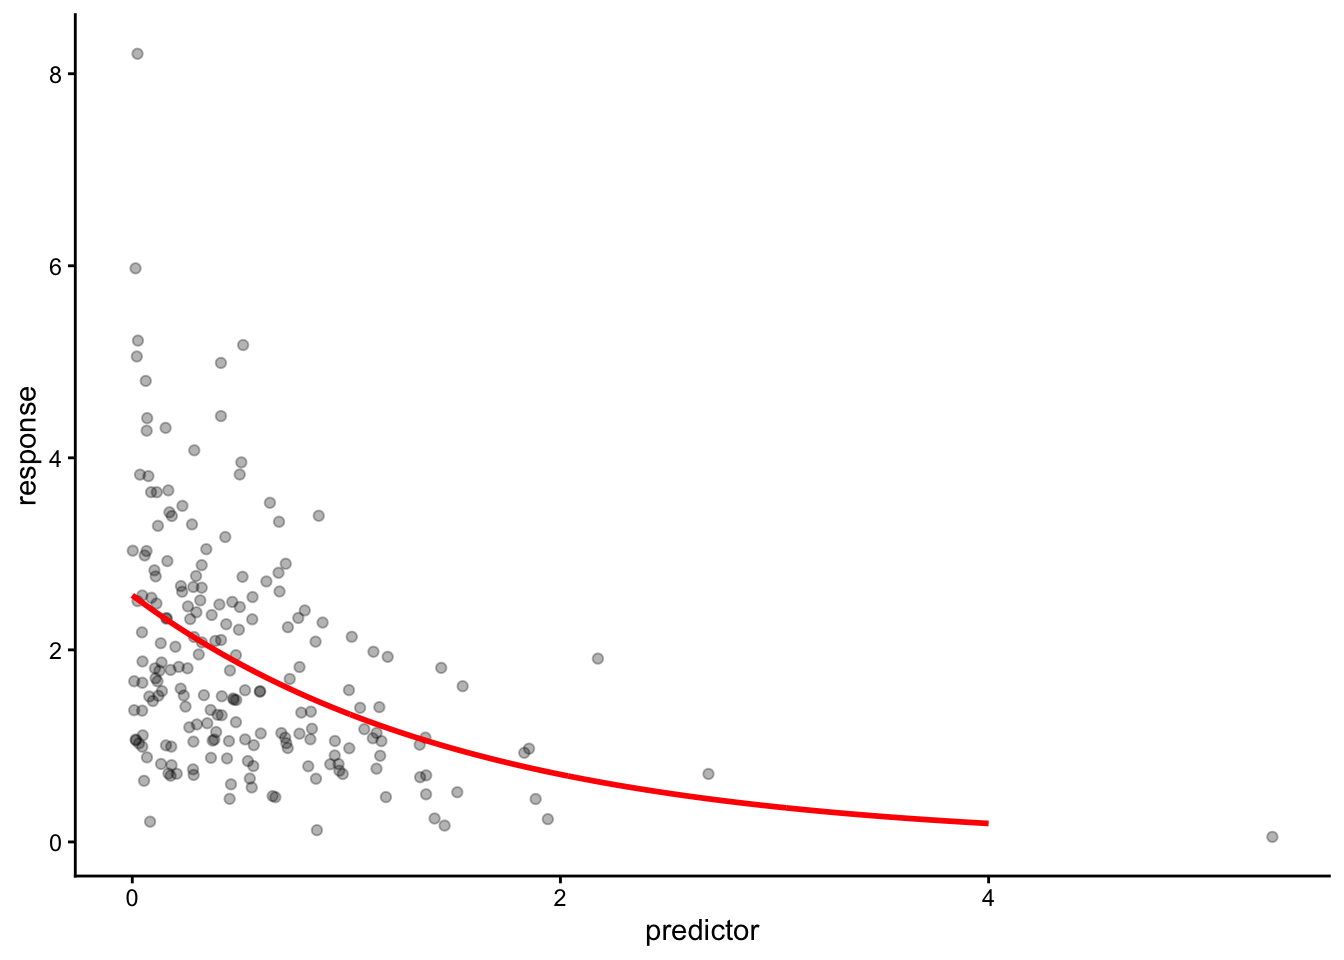
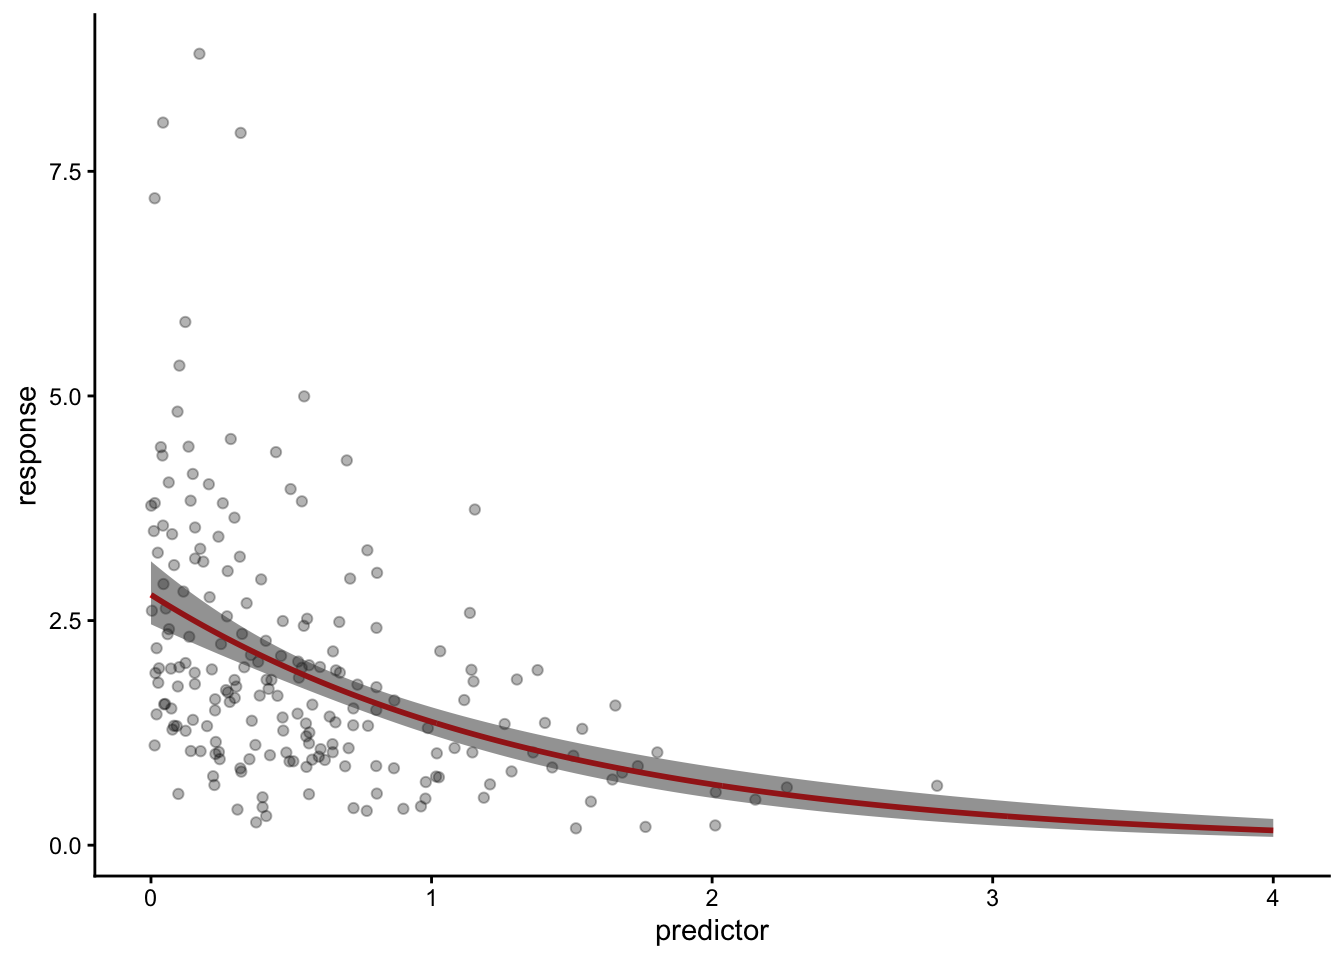
Update stats post

diff --git a/docs/posts/2025-12-3-stats-final/index.html b/docs/posts/2025-12-3-stats-final/index.html
@@ -250,6 +250,7 @@ window.Quarto = {
   <li><a href="#fit-model-to-simulated-data" id="toc-fit-model-to-simulated-data" class="nav-link" data-scroll-target="#fit-model-to-simulated-data">Fit model to simulated data</a></li>
   <li><a href="#fit-model-to-real-data" id="toc-fit-model-to-real-data" class="nav-link" data-scroll-target="#fit-model-to-real-data">Fit model to real data</a></li>
   </ul></li>
+  <li><a href="#extend-model-to-other-parameters" id="toc-extend-model-to-other-parameters" class="nav-link" data-scroll-target="#extend-model-to-other-parameters">Extend model to other parameters</a></li>
   <li><a href="#inference" id="toc-inference" class="nav-link" data-scroll-target="#inference">Inference</a></li>
   </ul>
 </nav>
@@ -273,6 +274,140 @@ window.Quarto = {
 </div>
 <div class="cell">
 <div class="code-copy-outer-scaffold"><div class="sourceCode cell-code" id="cb2"><pre class="sourceCode r code-with-copy"><code class="sourceCode r"><span id="cb2-1"><a href="#cb2-1" aria-hidden="true" tabindex="-1"></a>lakes <span class="ot">&lt;-</span> <span class="fu">read_csv</span>(here<span class="sc">::</span><span class="fu">here</span>(<span class="st">'data'</span>, <span class="st">"Timeseries_v6_forEDI.csv"</span>))</span></code></pre></div><button title="Copy to Clipboard" class="code-copy-button"><i class="bi"></i></button></div>
+</div>
+<p><strong>Variables Description:</strong></p>
+<div id="tbl-panel" class="quarto-layout-panel anchored">
+<figure class="quarto-float quarto-float-tbl figure">
+<figcaption class="quarto-float-caption-top quarto-float-caption quarto-float-tbl" id="tbl-panel-caption-0ceaefa1-69ba-4598-a22c-09a6ac19f8ca">
+Table&nbsp;1: Dataset Overview
+</figcaption>
+<div aria-describedby="tbl-panel-caption-0ceaefa1-69ba-4598-a22c-09a6ac19f8ca">
+<div class="quarto-layout-row">
+<div class="quarto-layout-cell-subref quarto-layout-cell" data-ref-parent="tbl-panel" style="flex-basis: 50.0%;justify-content: center;">
+<div id="tbl-first" class="quarto-float quarto-figure quarto-figure-center anchored">
+<figure class="quarto-float quarto-subfloat-tbl figure">
+<figcaption class="quarto-float-caption-top quarto-subfloat-caption quarto-subfloat-tbl" id="tbl-first-caption-0ceaefa1-69ba-4598-a22c-09a6ac19f8ca">
+(a) Variables Overview
+</figcaption>
+<div aria-describedby="tbl-first-caption-0ceaefa1-69ba-4598-a22c-09a6ac19f8ca">
+<table class="caption-top table">
+<colgroup>
+<col style="width: 50%">
+<col style="width: 50%">
+</colgroup>
+<thead>
+<tr class="header">
+<th style="text-align: left;">Variables</th>
+<th style="text-align: left;">Description</th>
+</tr>
+</thead>
+<tbody>
+<tr class="odd">
+<td style="text-align: left;">DOW</td>
+<td style="text-align: left;">DNR Lake Number</td>
+</tr>
+<tr class="even">
+<td style="text-align: left;">sampleDate</td>
+<td style="text-align: left;">Date which sample was collected on</td>
+</tr>
+<tr class="odd">
+<td style="text-align: left;">parameter</td>
+<td style="text-align: left;">Water quality parameter</td>
+</tr>
+<tr class="even">
+<td style="text-align: left;">result</td>
+<td style="text-align: left;">Value of parameter</td>
+</tr>
+<tr class="odd">
+<td style="text-align: left;">gtlt</td>
+<td style="text-align: left;">Greater than less than, indicates if values are above or below detection limits</td>
+</tr>
+<tr class="even">
+<td style="text-align: left;">dataSource</td>
+<td style="text-align: left;">Source of original data</td>
+</tr>
+<tr class="odd">
+<td style="text-align: left;">county</td>
+<td style="text-align: left;">County which lake is located in</td>
+</tr>
+</tbody>
+</table>
+</div>
+</figure>
+</div>
+</div>
+<div class="quarto-layout-cell-subref quarto-layout-cell" data-ref-parent="tbl-panel" style="flex-basis: 50.0%;justify-content: center;">
+<div id="tbl-second" class="quarto-float quarto-figure quarto-figure-center anchored">
+<figure class="quarto-float quarto-subfloat-tbl figure">
+<figcaption class="quarto-float-caption-top quarto-subfloat-caption quarto-subfloat-tbl" id="tbl-second-caption-0ceaefa1-69ba-4598-a22c-09a6ac19f8ca">
+(b) Parameters
+</figcaption>
+<div aria-describedby="tbl-second-caption-0ceaefa1-69ba-4598-a22c-09a6ac19f8ca">
+<table class="caption-top table">
+<thead>
+<tr class="header">
+<th style="text-align: left;">Parameters</th>
+<th style="text-align: left;">Description</th>
+</tr>
+</thead>
+<tbody>
+<tr class="odd">
+<td style="text-align: left;">chla.nonPcorr.ug_L</td>
+<td style="text-align: left;">Chlorophyll a, not corrected for pheophytin</td>
+</tr>
+<tr class="even">
+<td style="text-align: left;">chla.Pcorr.ug_L</td>
+<td style="text-align: left;">Chlorophyll a, corrected for pheophytin</td>
+</tr>
+<tr class="odd">
+<td style="text-align: left;">Cl.mg_L</td>
+<td style="text-align: left;">Chlorine</td>
+</tr>
+<tr class="even">
+<td style="text-align: left;">NH4.mg_L</td>
+<td style="text-align: left;">Ammonium</td>
+</tr>
+<tr class="odd">
+<td style="text-align: left;">nitrate.mg_L</td>
+<td style="text-align: left;">Nitrate</td>
+</tr>
+<tr class="even">
+<td style="text-align: left;">nitrite.mg_L</td>
+<td style="text-align: left;">Nitrite</td>
+</tr>
+<tr class="odd">
+<td style="text-align: left;">NOX.mg_L</td>
+<td style="text-align: left;">Nitrate &amp; Nitrite</td>
+</tr>
+<tr class="even">
+<td style="text-align: left;">secchi.m</td>
+<td style="text-align: left;">Secchi depth</td>
+</tr>
+<tr class="odd">
+<td style="text-align: left;">spCond.uS_cm</td>
+<td style="text-align: left;">Specific conductivity</td>
+</tr>
+<tr class="even">
+<td style="text-align: left;">TKN.mg_L</td>
+<td style="text-align: left;">Total Kjeldahl nitrogen</td>
+</tr>
+<tr class="odd">
+<td style="text-align: left;">TN.mg_L</td>
+<td style="text-align: left;">Total nitrogen</td>
+</tr>
+<tr class="even">
+<td style="text-align: left;">TP.mg_L</td>
+<td style="text-align: left;">Total phosphorus</td>
+</tr>
+</tbody>
+</table>
+</div>
+</figure>
+</div>
+</div>
+</div>
+</div>
+</figure>
 </div>
 <div class="cell">
 <div class="code-copy-outer-scaffold"><div class="sourceCode cell-code" id="cb3"><pre class="sourceCode r code-with-copy"><code class="sourceCode r"><span id="cb3-1"><a href="#cb3-1" aria-hidden="true" tabindex="-1"></a><span class="fu">ggplot</span>(lakes, <span class="fu">aes</span>(result)) <span class="sc">+</span></span>
@@ -369,6 +504,7 @@ window.Quarto = {
 <span id="cb5-3"><a href="#cb5-3" aria-hidden="true" tabindex="-1"></a>beta1 <span class="ot">&lt;-</span> <span class="sc">-</span><span class="fl">0.7</span> <span class="co"># Simulate log response decrease as predictor increases</span></span>
 <span id="cb5-4"><a href="#cb5-4" aria-hidden="true" tabindex="-1"></a>phi <span class="ot">&lt;-</span> <span class="dv">3</span></span></code></pre></div><button title="Copy to Clipboard" class="code-copy-button"><i class="bi"></i></button></div>
 </div>
+<p>To confirm our understanding of the model and system, we create simulated data with pre-defined coefficients, run the model and expect our coefficients to be returned.</p>
 <p><strong>Generating simulated data:</strong></p>
 <p>The predictor:</p>
 <ul>
@@ -411,9 +547,20 @@ window.Quarto = {
 <span id="cb9-4"><a href="#cb9-4" aria-hidden="true" tabindex="-1"></a><span class="co"># Create grid (one predictor for now)</span></span>
 <span id="cb9-5"><a href="#cb9-5" aria-hidden="true" tabindex="-1"></a>sim_grid <span class="ot">&lt;-</span> <span class="fu">tibble</span>(<span class="at">predictor =</span> <span class="fu">seq</span>(<span class="dv">0</span>, <span class="dv">4</span>, <span class="at">length.out =</span> <span class="dv">500</span>))</span>
 <span id="cb9-6"><a href="#cb9-6" aria-hidden="true" tabindex="-1"></a></span>
-<span id="cb9-7"><a href="#cb9-7" aria-hidden="true" tabindex="-1"></a><span class="co"># Generate predictions</span></span>
-<span id="cb9-8"><a href="#cb9-8" aria-hidden="true" tabindex="-1"></a>sim_grid <span class="ot">&lt;-</span> sim_grid <span class="sc">|&gt;</span> </span>
-<span id="cb9-9"><a href="#cb9-9" aria-hidden="true" tabindex="-1"></a>  <span class="fu">mutate</span>(<span class="at">predicted_response =</span> <span class="fu">predict</span>(sim_model, <span class="at">newdata =</span> sim_grid, <span class="at">type =</span> <span class="st">"response"</span>))</span></code></pre></div><button title="Copy to Clipboard" class="code-copy-button"><i class="bi"></i></button></div>
+<span id="cb9-7"><a href="#cb9-7" aria-hidden="true" tabindex="-1"></a><span class="co"># Generate predictions with standard error in link space</span></span>
+<span id="cb9-8"><a href="#cb9-8" aria-hidden="true" tabindex="-1"></a>sim_se <span class="ot">&lt;-</span> <span class="fu">predict</span>(sim_model, <span class="at">newdata =</span> sim_grid, <span class="at">type =</span> <span class="st">"link"</span>, <span class="at">se.fit =</span> <span class="cn">TRUE</span>)</span>
+<span id="cb9-9"><a href="#cb9-9" aria-hidden="true" tabindex="-1"></a></span>
+<span id="cb9-10"><a href="#cb9-10" aria-hidden="true" tabindex="-1"></a><span class="co"># Undo link &amp; add confidence intervals</span></span>
+<span id="cb9-11"><a href="#cb9-11" aria-hidden="true" tabindex="-1"></a>sim_ci <span class="ot">&lt;-</span> sim_grid <span class="sc">|&gt;</span> </span>
+<span id="cb9-12"><a href="#cb9-12" aria-hidden="true" tabindex="-1"></a>  <span class="fu">mutate</span>(<span class="at">log_response =</span> sim_se<span class="sc">$</span>fit,</span>
+<span id="cb9-13"><a href="#cb9-13" aria-hidden="true" tabindex="-1"></a>         <span class="at">log_response_se =</span> sim_se<span class="sc">$</span>se.fit,</span>
+<span id="cb9-14"><a href="#cb9-14" aria-hidden="true" tabindex="-1"></a>         <span class="at">log_response_lower =</span> <span class="fu">qnorm</span>(<span class="fl">0.025</span>, log_response, log_response_se),</span>
+<span id="cb9-15"><a href="#cb9-15" aria-hidden="true" tabindex="-1"></a>         <span class="at">log_response_upper =</span> <span class="fu">qnorm</span>(<span class="fl">0.975</span>, log_response, log_response_se),</span>
+<span id="cb9-16"><a href="#cb9-16" aria-hidden="true" tabindex="-1"></a>         <span class="co"># Mean</span></span>
+<span id="cb9-17"><a href="#cb9-17" aria-hidden="true" tabindex="-1"></a>         <span class="at">predicted_mean =</span> <span class="fu">exp</span>(log_response),</span>
+<span id="cb9-18"><a href="#cb9-18" aria-hidden="true" tabindex="-1"></a>         <span class="co"># Mean CI</span></span>
+<span id="cb9-19"><a href="#cb9-19" aria-hidden="true" tabindex="-1"></a>         <span class="at">mean_lower =</span> <span class="fu">exp</span>(log_response_lower),</span>
+<span id="cb9-20"><a href="#cb9-20" aria-hidden="true" tabindex="-1"></a>         <span class="at">mean_upper =</span> <span class="fu">exp</span>(log_response_upper))</span></code></pre></div><button title="Copy to Clipboard" class="code-copy-button"><i class="bi"></i></button></div>
 </div>
 <div class="cell">
 <div class="code-copy-outer-scaffold"><div class="sourceCode cell-code" id="cb10"><pre class="sourceCode r code-with-copy"><code class="sourceCode r"><span id="cb10-1"><a href="#cb10-1" aria-hidden="true" tabindex="-1"></a><span class="co"># Return simulated data coefficients</span></span>
@@ -424,7 +571,7 @@ window.Quarto = {
 <div id="tbl-sim-coefs" class="cell quarto-float quarto-figure quarto-figure-center anchored">
 <figure class="quarto-float quarto-float-tbl figure">
 <figcaption class="quarto-float-caption-top quarto-float-caption quarto-float-tbl" id="tbl-sim-coefs-caption-0ceaefa1-69ba-4598-a22c-09a6ac19f8ca">
-Table&nbsp;1: Returned coefficients from running model on simulated data
+Table&nbsp;2: Returned coefficients from running model on simulated data
 </figcaption>
 <div aria-describedby="tbl-sim-coefs-caption-0ceaefa1-69ba-4598-a22c-09a6ac19f8ca">
 <div class="cell-output-display">
@@ -441,16 +588,16 @@ Table&nbsp;1: Returned coefficients from running model on simulated data
 <tbody>
 <tr class="odd">
 <td style="text-align: left;">(Intercept)</td>
-<td style="text-align: center;">0.94</td>
+<td style="text-align: center;">1.02</td>
 <td style="text-align: center;">0.06</td>
-<td style="text-align: center;">16.98</td>
+<td style="text-align: center;">16.01</td>
 <td style="text-align: center;">0</td>
 </tr>
 <tr class="even">
 <td style="text-align: left;">predictor</td>
-<td style="text-align: center;">-0.65</td>
-<td style="text-align: center;">0.07</td>
-<td style="text-align: center;">-9.30</td>
+<td style="text-align: center;">-0.71</td>
+<td style="text-align: center;">0.08</td>
+<td style="text-align: center;">-8.38</td>
 <td style="text-align: center;">0</td>
 </tr>
 </tbody>
@@ -464,7 +611,8 @@ Table&nbsp;1: Returned coefficients from running model on simulated data
 <div class="code-copy-outer-scaffold"><div class="sourceCode cell-code" id="cb11"><pre class="sourceCode r code-with-copy"><code class="sourceCode r"><span id="cb11-1"><a href="#cb11-1" aria-hidden="true" tabindex="-1"></a><span class="co"># Plot simulated data with model fit</span></span>
 <span id="cb11-2"><a href="#cb11-2" aria-hidden="true" tabindex="-1"></a><span class="fu">ggplot</span>() <span class="sc">+</span> </span>
 <span id="cb11-3"><a href="#cb11-3" aria-hidden="true" tabindex="-1"></a>  <span class="fu">geom_point</span>(<span class="at">data =</span> sim_df, <span class="fu">aes</span>(predictor, response), <span class="at">alpha =</span> <span class="fl">0.3</span>) <span class="sc">+</span></span>
-<span id="cb11-4"><a href="#cb11-4" aria-hidden="true" tabindex="-1"></a>  <span class="fu">geom_line</span>(<span class="at">data =</span> sim_grid, <span class="fu">aes</span>(predictor, predicted_response), <span class="at">color =</span> <span class="st">'red'</span>, <span class="at">linewidth =</span> <span class="dv">1</span>)</span></code></pre></div><button title="Copy to Clipboard" class="code-copy-button"><i class="bi"></i></button></div>
+<span id="cb11-4"><a href="#cb11-4" aria-hidden="true" tabindex="-1"></a>  <span class="fu">geom_line</span>(<span class="at">data =</span> sim_ci, <span class="fu">aes</span>(predictor, predicted_mean), <span class="at">color =</span> <span class="st">'red'</span>, <span class="at">linewidth =</span> <span class="dv">1</span>) <span class="sc">+</span></span>
+<span id="cb11-5"><a href="#cb11-5" aria-hidden="true" tabindex="-1"></a>  <span class="fu">geom_ribbon</span>(<span class="at">data =</span> sim_ci, <span class="fu">aes</span>(predictor, <span class="at">ymin =</span> mean_lower, <span class="at">ymax =</span> mean_upper), <span class="at">alpha =</span> <span class="fl">0.5</span>)</span></code></pre></div><button title="Copy to Clipboard" class="code-copy-button"><i class="bi"></i></button></div>
 <div class="cell-output-display">
 <div>
 <figure class="figure">
@@ -614,6 +762,33 @@ Table&nbsp;1: Returned coefficients from running model on simulated data
 </div>
 </div>
 </section>
+</section>
+<section id="extend-model-to-other-parameters" class="level1">
+<h1>Extend model to other parameters</h1>
+<div class="cell">
+<div class="code-copy-outer-scaffold"><div class="sourceCode cell-code" id="cb19"><pre class="sourceCode r code-with-copy"><code class="sourceCode r"><span id="cb19-1"><a href="#cb19-1" aria-hidden="true" tabindex="-1"></a>response_vars <span class="ot">&lt;-</span> lakes_wide <span class="sc">|&gt;</span> </span>
+<span id="cb19-2"><a href="#cb19-2" aria-hidden="true" tabindex="-1"></a>  <span class="fu">select</span>(NOX.mg_L<span class="sc">:</span>TN.mg_L) <span class="sc">|&gt;</span> </span>
+<span id="cb19-3"><a href="#cb19-3" aria-hidden="true" tabindex="-1"></a>  <span class="fu">colnames</span>()</span>
+<span id="cb19-4"><a href="#cb19-4" aria-hidden="true" tabindex="-1"></a></span>
+<span id="cb19-5"><a href="#cb19-5" aria-hidden="true" tabindex="-1"></a>lakes_nonzero <span class="ot">&lt;-</span> lakes_wide <span class="sc">|&gt;</span> </span>
+<span id="cb19-6"><a href="#cb19-6" aria-hidden="true" tabindex="-1"></a>  <span class="fu">filter</span>(spCond.uS_cm <span class="sc">&gt;</span> <span class="dv">0</span>) <span class="sc">|&gt;</span></span>
+<span id="cb19-7"><a href="#cb19-7" aria-hidden="true" tabindex="-1"></a>  <span class="fu">filter</span>(NH4.mg_L <span class="sc">&gt;</span> <span class="dv">0</span>) <span class="sc">|&gt;</span></span>
+<span id="cb19-8"><a href="#cb19-8" aria-hidden="true" tabindex="-1"></a>  <span class="fu">filter</span>(chla.Pcorr.ug_L <span class="sc">&gt;</span> <span class="dv">0</span>)</span></code></pre></div><button title="Copy to Clipboard" class="code-copy-button"><i class="bi"></i></button></div>
+</div>
+<div class="cell">
+<div class="code-copy-outer-scaffold"><div class="sourceCode cell-code" id="cb20"><pre class="sourceCode r code-with-copy"><code class="sourceCode r"><span id="cb20-1"><a href="#cb20-1" aria-hidden="true" tabindex="-1"></a>response_df <span class="ot">&lt;-</span> <span class="fu">map_df</span>(response_vars, <span class="sc">~</span>{</span>
+<span id="cb20-2"><a href="#cb20-2" aria-hidden="true" tabindex="-1"></a>  model <span class="ot">&lt;-</span> <span class="fu">glm</span>(<span class="fu">as.formula</span>(<span class="fu">paste</span>(.x, <span class="st">"~ secchi.m"</span>)), <span class="at">data =</span> lakes_nonzero, <span class="at">family =</span> <span class="fu">Gamma</span>(<span class="at">link =</span> <span class="st">"log"</span>))</span>
+<span id="cb20-3"><a href="#cb20-3" aria-hidden="true" tabindex="-1"></a>  model_sum <span class="ot">&lt;-</span> <span class="fu">summary</span>(model)</span>
+<span id="cb20-4"><a href="#cb20-4" aria-hidden="true" tabindex="-1"></a>  </span>
+<span id="cb20-5"><a href="#cb20-5" aria-hidden="true" tabindex="-1"></a>  <span class="fu">tibble</span>(</span>
+<span id="cb20-6"><a href="#cb20-6" aria-hidden="true" tabindex="-1"></a>    <span class="at">response =</span> .x,</span>
+<span id="cb20-7"><a href="#cb20-7" aria-hidden="true" tabindex="-1"></a>    <span class="at">term =</span> <span class="fu">names</span>(<span class="fu">coef</span>(model)),</span>
+<span id="cb20-8"><a href="#cb20-8" aria-hidden="true" tabindex="-1"></a>    <span class="at">estimate =</span> <span class="fu">coef</span>(model),</span>
+<span id="cb20-9"><a href="#cb20-9" aria-hidden="true" tabindex="-1"></a>    <span class="at">p_val =</span> <span class="fu">coef</span>(model_sum)[, <span class="dv">4</span>]</span>
+<span id="cb20-10"><a href="#cb20-10" aria-hidden="true" tabindex="-1"></a>  )</span>
+<span id="cb20-11"><a href="#cb20-11" aria-hidden="true" tabindex="-1"></a>  </span>
+<span id="cb20-12"><a href="#cb20-12" aria-hidden="true" tabindex="-1"></a>})</span></code></pre></div><button title="Copy to Clipboard" class="code-copy-button"><i class="bi"></i></button></div>
+</div>
 </section>
 <section id="inference" class="level1">
 <h1>Inference</h1>

diff --git a/docs/posts.html b/docs/posts.html
@@ -243,7 +243,7 @@ Dec 5, 2025
 </div>
 </div></a>
 </div>
-<div class="g-col-1" data-index="1" data-categories="TUVEUyUyQ1IlMkNTdGF0aXN0aWNz" data-listing-date-sort="1764756000000" data-listing-file-modified-sort="1765339022448" data-listing-date-modified-sort="NaN" data-listing-reading-time-sort="7" data-listing-word-count-sort="1322">
+<div class="g-col-1" data-index="1" data-categories="TUVEUyUyQ1IlMkNTdGF0aXN0aWNz" data-listing-date-sort="1764756000000" data-listing-file-modified-sort="1765443310119" data-listing-date-modified-sort="NaN" data-listing-reading-time-sort="11" data-listing-word-count-sort="2143">
 <a href="./posts/2025-12-3-stats-final/index.html" class="quarto-grid-link">
 <div class="quarto-grid-item card h-100 card-left">
 <p class="card-img-top">
